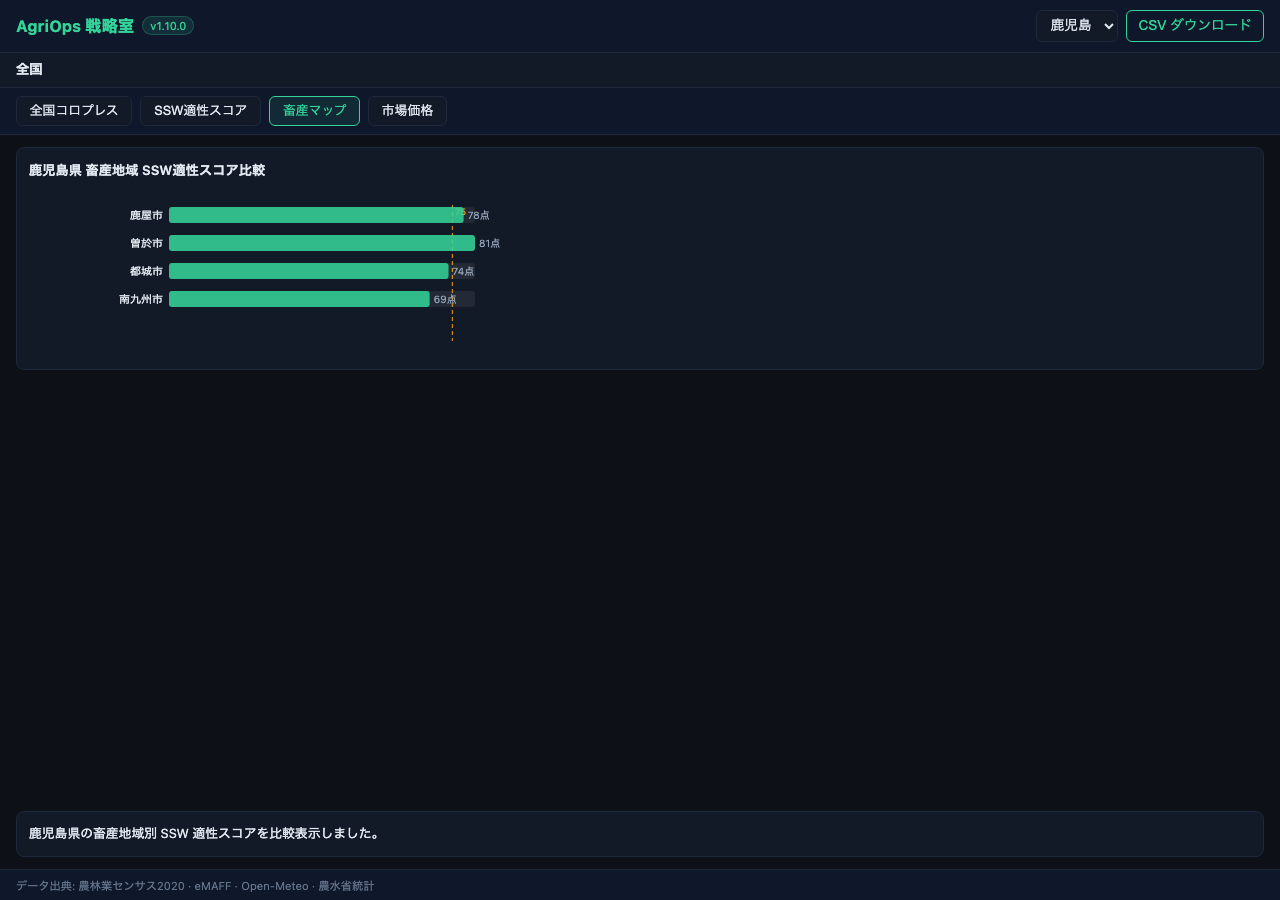
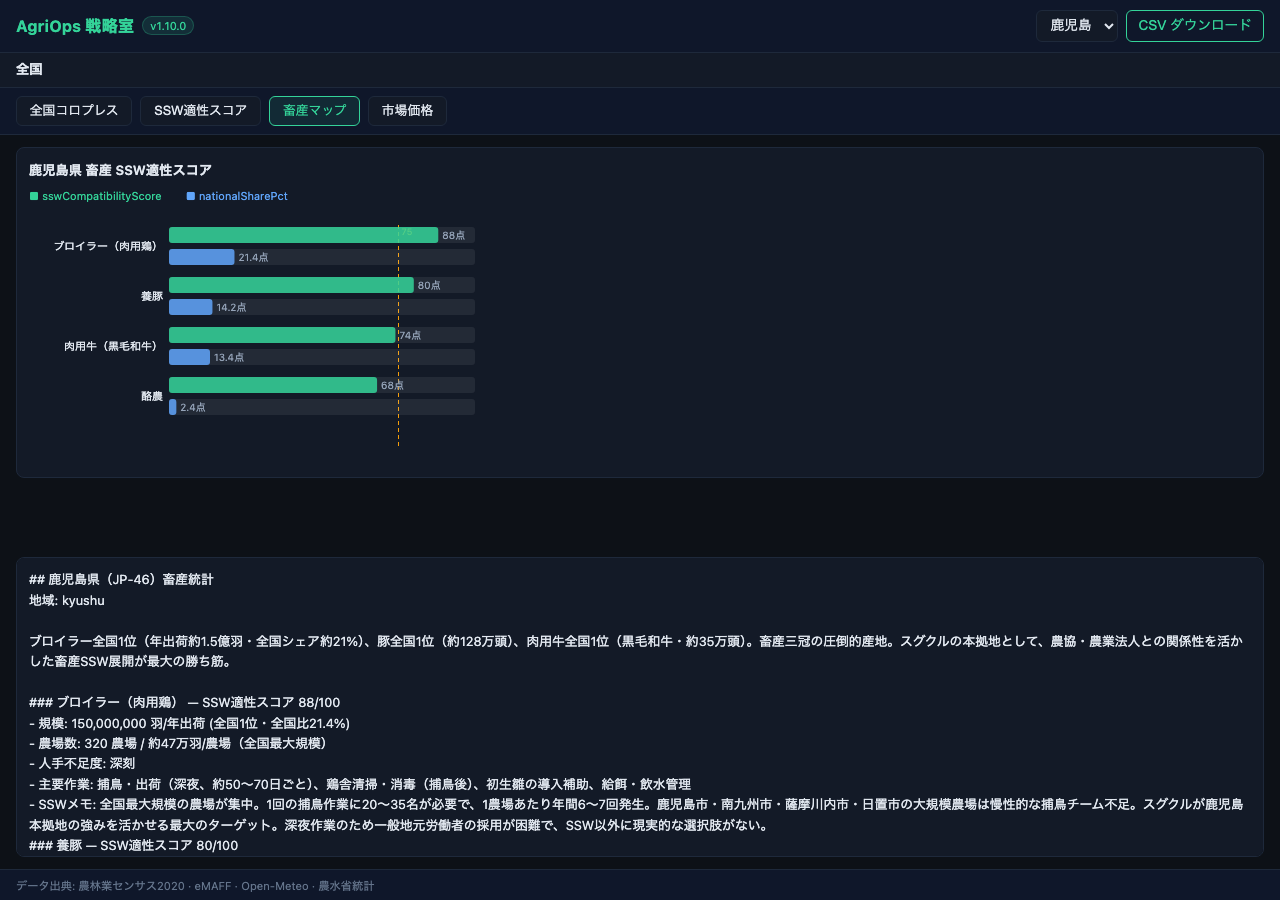
docs: recapture Directory screenshots from live 1.15.8 endpoint
Regenerated the 5 committed screenshots via npm run
capture:screenshots:live against the redeployed public Cloud Run
service, and updated docs/anthropic-directory-submission.md to
describe the get_market_price bug this recapture caught and fixed
in 1.15.8.

diff --git a/docs/anthropic-directory-submission.md b/docs/anthropic-directory-submission.md
@@ -1,6 +1,6 @@
 # Anthropic Connectors Directory — submission plan
 
-_Status: technical checklist complete as of 2026-07-22. Both Cloud Run deployments (public anonymous + operational) are live and anonymously/functionally verified against real eMAFF/FAMIC data; GitHub Pages (Privacy Policy / Support / Data License) is live and verified HTTP 200; `@sugukuru/agriops-mcp` is published on npm at `1.15.7` with provenance. Exactly one manual/non-technical item remains before portal submission — org access (§4: Team/Enterprise + Directory management permission on the WIN Kagoshima / スグクル Claude.ai org). This document is the single source of truth for the "make AgriOps MCP listing-ready" effort. It captures the Phase 0 decision (submission shape) and the Phase 4 pre-submission checklist referenced in [AGENTS.md](../AGENTS.md)._
+_Status: technical checklist complete as of 2026-07-22. Both Cloud Run deployments (public anonymous + operational) are live at `1.15.8` and anonymously/functionally verified against real eMAFF/FAMIC data; GitHub Pages (Privacy Policy / Support / Data License) is live and verified HTTP 200; `@sugukuru/agriops-mcp` is published on npm at `1.15.8` with provenance. The 5 Directory screenshots (§6) were recaptured against the live `1.15.8` public endpoint via `npm run capture:screenshots:live`, which also caught and led to fixing a real `get_market_price` rendering bug (§9) that the original mock-based capture could not have found. Exactly one manual/non-technical item remains before portal submission — org access (§4: Team/Enterprise + Directory management permission on the WIN Kagoshima / スグクル Claude.ai org). This document is the single source of truth for the "make AgriOps MCP listing-ready" effort. It captures the Phase 0 decision (submission shape) and the Phase 4 pre-submission checklist referenced in [AGENTS.md](../AGENTS.md)._
 
 Authoritative references: [Connectors directory](https://claude.com/docs/connectors/directory), [Submission](https://claude.com/docs/connectors/building/submission), [Pre-submission checklist](https://claude.com/docs/connectors/building/review-criteria), [Software Directory Policy](https://support.claude.com/en/articles/13145358-anthropic-software-directory-policy).
 
@@ -64,10 +64,10 @@ Mapped to the [official checklist](https://claude.com/docs/connectors/building/r
 | Support contact (public HTTPS URL) | Done 2026-07-22 — same GitHub Pages deployment as above | <https://win-kagoshima.github.io/agriops-mcp/support/>, [`site/support/index.html`](../site/support/index.html) |
 | Test credentials | N/A — anonymous connector, no account | — |
 | Icon | Done — `assets/logo.png` was actually a mislabeled JPEG (`file` reported `JPEG image data` despite the `.png` extension); re-encoded in place to a true 1024×1024 PNG 2026-07-22 | `assets/logo.png` |
-| MCP Apps screenshots (3–5 PNG, ≥1000px wide) | Done — 5 × 1280×900 PNGs captured 2026-07-22 via `npm run capture:screenshots` (`scripts/capture-directory-screenshots.ts`), covering choropleth / radar / bar_compare / timeseries views plus the new CSV-export fallback panel. Still recommend a final live-host recapture before upload per §6's note | `assets/directory-screenshots/1..5-*.png` |
+| MCP Apps screenshots (3–5 PNG, ≥1000px wide) | Done — 5 × 1280×900 PNGs recaptured 2026-07-22 via `npm run capture:screenshots:live` (`scripts/capture-directory-screenshots-live.ts`) directly against the live `1.15.8` public endpoint (real `initialize`/`resources/read`/`tools/call`, not a hand-mocked bridge), covering choropleth / radar / bar_compare / timeseries views plus the CSV-export fallback panel. This recapture is what caught the `get_market_price` timeseries bug fixed in §9 — the real endpoint's response didn't match the shape the mock-based `npm run capture:screenshots` had assumed. Still recommend a final capture from an actual Claude Desktop / Inspector Apps-preview session before upload if one becomes available, per §6/§8.3's original caveat | `assets/directory-screenshots/1..5-*.png`, [`scripts/capture-directory-screenshots-live.ts`](../scripts/capture-directory-screenshots-live.ts) |
 | Org access: Team/Enterprise + Directory management permission | **Action item (manual, non-technical)** — confirm with the WIN Kagoshima / スグクル Claude.ai org admin | — |
-| Live endpoint reachable anonymously | Done 2026-07-22 — dedicated `agriops-mcp-public` Cloud Run service (`mcp-service-492010`, `--allow-unauthenticated`) redeployed at `v1.15.3` and verified anonymously via `npm run deploy:smoke -- --call-tool`: `/livez` (version match), `/readyz` (`emaff`/`famic`/`weather`/`jma` all `ok: true` against real snapshots), `.well-known/mcp-server.json`, anonymous `initialize`, exactly 8 model-visible tools, a real `tools/call get_weather_1km`, `prompts/list` (10), and `resources/list` (5) — all pass with zero credentials | <https://agriops-mcp-public-731026511067.asia-northeast1.run.app>, [`cloudbuild.public.yaml`](../cloudbuild.public.yaml), [`.github/workflows/deploy-public.yml`](../.github/workflows/deploy-public.yml) |
-| npm package (`@sugukuru/agriops-mcp`) | Done 2026-07-22 — published and verified live: `npm view @sugukuru/agriops-mcp version` → `1.15.7`, `dist-tags.latest` → `1.15.7`, with a SLSA v1 provenance attestation attached. Took four extra patch releases to land (`1.15.4`–`1.15.7`): `1.15.4` removed a stale empty `_authToken` that `actions/setup-node`'s `registry-url` input writes into `.npmrc` (blocks npm's own OIDC detection, npm/documentation#1960); `1.15.5` stripped the `git+` scheme from `package.json#repository.url` (npm's OIDC repo-match check, npm/cli#8976); `1.15.6` fell back to a granular, package-scoped, 2FA-bypass `NPM_TOKEN` after OIDC trusted publishing kept failing with `ENEEDAUTH` even with every documented requirement independently re-verified on both the CI and npmjs.com side (open upstream reports for scoped packages: npm/cli#8976, npm/cli#9088) — a deliberate, documented, reversible "Pragmatism over purity" call, not a silent workaround; `1.15.7` fixed a `secrets`-in-step-`if:` schema error in `1.15.6`'s own workflow edit (GitHub silently refuses to schedule any job for an invalid workflow file) and added an `actionlint` hard gate to `ci.yml` so that class of bug can't reach a tag push again. See `docs/npm-first-publish.md` §0 for the current fallback state and its exact revert condition. | [`.github/workflows/release.yml`](../.github/workflows/release.yml), [`docs/npm-first-publish.md`](npm-first-publish.md) |
+| Live endpoint reachable anonymously | Done 2026-07-22 — dedicated `agriops-mcp-public` Cloud Run service (`mcp-service-492010`, `--allow-unauthenticated`) redeployed at `v1.15.8` and verified anonymously via `npm run deploy:smoke -- --call-tool`: `/livez` (version match), `/readyz` (`emaff`/`famic`/`weather`/`jma` all `ok: true` against real snapshots), `.well-known/mcp-server.json`, anonymous `initialize`, exactly 8 model-visible tools, a real `tools/call get_weather_1km`, `prompts/list` (10), and `resources/list` (5) — all pass with zero credentials. The operational (IAM-protected) Cloud Run service was redeployed to `1.15.8` in the same pass | <https://agriops-mcp-public-731026511067.asia-northeast1.run.app>, [`cloudbuild.public.yaml`](../cloudbuild.public.yaml), [`.github/workflows/deploy-public.yml`](../.github/workflows/deploy-public.yml) |
+| npm package (`@sugukuru/agriops-mcp`) | Done 2026-07-22 — published and verified live: `npm view @sugukuru/agriops-mcp version` → `1.15.8`, `dist-tags.latest` → `1.15.8`, with a SLSA v1 provenance attestation attached (published cleanly via the `NPM_TOKEN` fallback wired in at `1.15.6` — no further publishing issues on this release). Took four extra patch releases to first land (`1.15.4`–`1.15.7`): `1.15.4` removed a stale empty `_authToken` that `actions/setup-node`'s `registry-url` input writes into `.npmrc` (blocks npm's own OIDC detection, npm/documentation#1960); `1.15.5` stripped the `git+` scheme from `package.json#repository.url` (npm's OIDC repo-match check, npm/cli#8976); `1.15.6` fell back to a granular, package-scoped, 2FA-bypass `NPM_TOKEN` after OIDC trusted publishing kept failing with `ENEEDAUTH` even with every documented requirement independently re-verified on both the CI and npmjs.com side (open upstream reports for scoped packages: npm/cli#8976, npm/cli#9088) — a deliberate, documented, reversible "Pragmatism over purity" call, not a silent workaround; `1.15.7` fixed a `secrets`-in-step-`if:` schema error in `1.15.6`'s own workflow edit (GitHub silently refuses to schedule any job for an invalid workflow file) and added an `actionlint` hard gate to `ci.yml` so that class of bug can't reach a tag push again. See `docs/npm-first-publish.md` §0 for the current fallback state and its exact revert condition. | [`.github/workflows/release.yml`](../.github/workflows/release.yml), [`docs/npm-first-publish.md`](npm-first-publish.md) |
 | Inspector functional pass, all 8 default tools | Done — verified 2026-07-16 (§8) | `tools/call` succeeded (`isError: false`) for all 8 default-tier tools against a local stdio build with fixture snapshots |
 | Portable output artifacts (resource links / embedded resources) | Done 2026-07-22 — `search_farmland` / `nearby_farms` embed a GeoJSON `FeatureCollection`; `get_pesticide_rules` / `create_staff_deploy_plan` embed CSV; dashboard UI adds a "CSV ダウンロード" button with a copy-to-clipboard fallback for sandboxed hosts | `src/lib/artifacts.ts`, `tests/conformance/artifacts.test.ts`, `src/ui/csv-export.ts` |
 
@@ -79,7 +79,9 @@ Before submission, re-read every default-tier tool description against the Direc
 
 Capture 3–5 PNG screenshots (≥1000px wide) of `ui://agriops/dashboard.html` rendered inside a host that supports MCP Apps (Claude Desktop or the MCP Inspector's Apps preview once available), showing: (1) the farmland map with a search result, (2) the weather overlay, (3) the strategy-room / staff-deploy view. Store under `assets/directory-screenshots/` (create on capture) and reference them from the submission portal — screenshots are uploaded through the portal itself, not committed as part of the server response.
 
-**2026-07-22 update**: `npm run capture:screenshots` (`scripts/capture-directory-screenshots.ts`) automates this with a headless Playwright pass against `dist/ui/dashboard.html`, injecting a mock `window.mcpApps` bridge that returns realistic `withVizHint`-shaped payloads for the dashboard-helper tools. It wrote 5 PNGs to `assets/directory-screenshots/`: municipality choropleth (map load), SSW-compatibility radar, livestock bar-compare, market-price time series, and the new CSV-export fallback panel. These are committed as a working baseline so the portal-upload step is never blocked; still recapture against a real Claude Desktop / Inspector Apps-preview connection before final submission, since the mock bridge is a local-iteration aid, not a substitute for host-verified rendering (see §8.3's original caveat, which still applies).
+**2026-07-22 update**: `npm run capture:screenshots` (`scripts/capture-directory-screenshots.ts`) automates this with a headless Playwright pass against `dist/ui/dashboard.html`, injecting a mock `window.mcpApps` bridge that returns realistic `withVizHint`-shaped payloads for the dashboard-helper tools. It wrote 5 PNGs to `assets/directory-screenshots/`: municipality choropleth (map load), SSW-compatibility radar, livestock bar-compare, market-price time series, and the CSV-export fallback panel. These were committed as a working baseline so the portal-upload step is never blocked.
+
+**2026-07-22 update, part 2 (live recapture)**: `npm run capture:screenshots:live` (`scripts/capture-directory-screenshots-live.ts`) goes one step further than the mock-based script above: it fetches the dashboard HTML bundle **and** all four dashboard-helper tool responses from the real, anonymously-reachable public Cloud Run endpoint via genuine `initialize` / `resources/read` / `tools/call` JSON-RPC, then drives that exact bundle with Playwright. This is the closest a non-interactive agent can get to the "final live-host recapture" this section originally asked for, short of an actual Claude Desktop / Inspector Apps-preview session. Running it immediately surfaced a real bug: `get_market_price`'s `structuredContent` was a single flat month object, not the array its own `preferredView: "timeseries"` `viz_hint` (declared since `1.10.0`) required — so the "市場価格" quick-action rendered an empty chart against any real (non-mocked) response, a regression the hand-written mock array could never have caught because it was shaped to already match what the chart expects. Fixed in `1.15.8` (see CHANGELOG.md and `tests/unit/get-market-price.test.ts`), redeployed to both Cloud Run services, and the 5 committed screenshots were regenerated from the fixed, live `1.15.8` endpoint — screenshot 4 now shows a real 12-point price curve and screenshot 5's CSV export now contains 12 real rows instead of one.
 
 ## 7. Parallel listings
 
